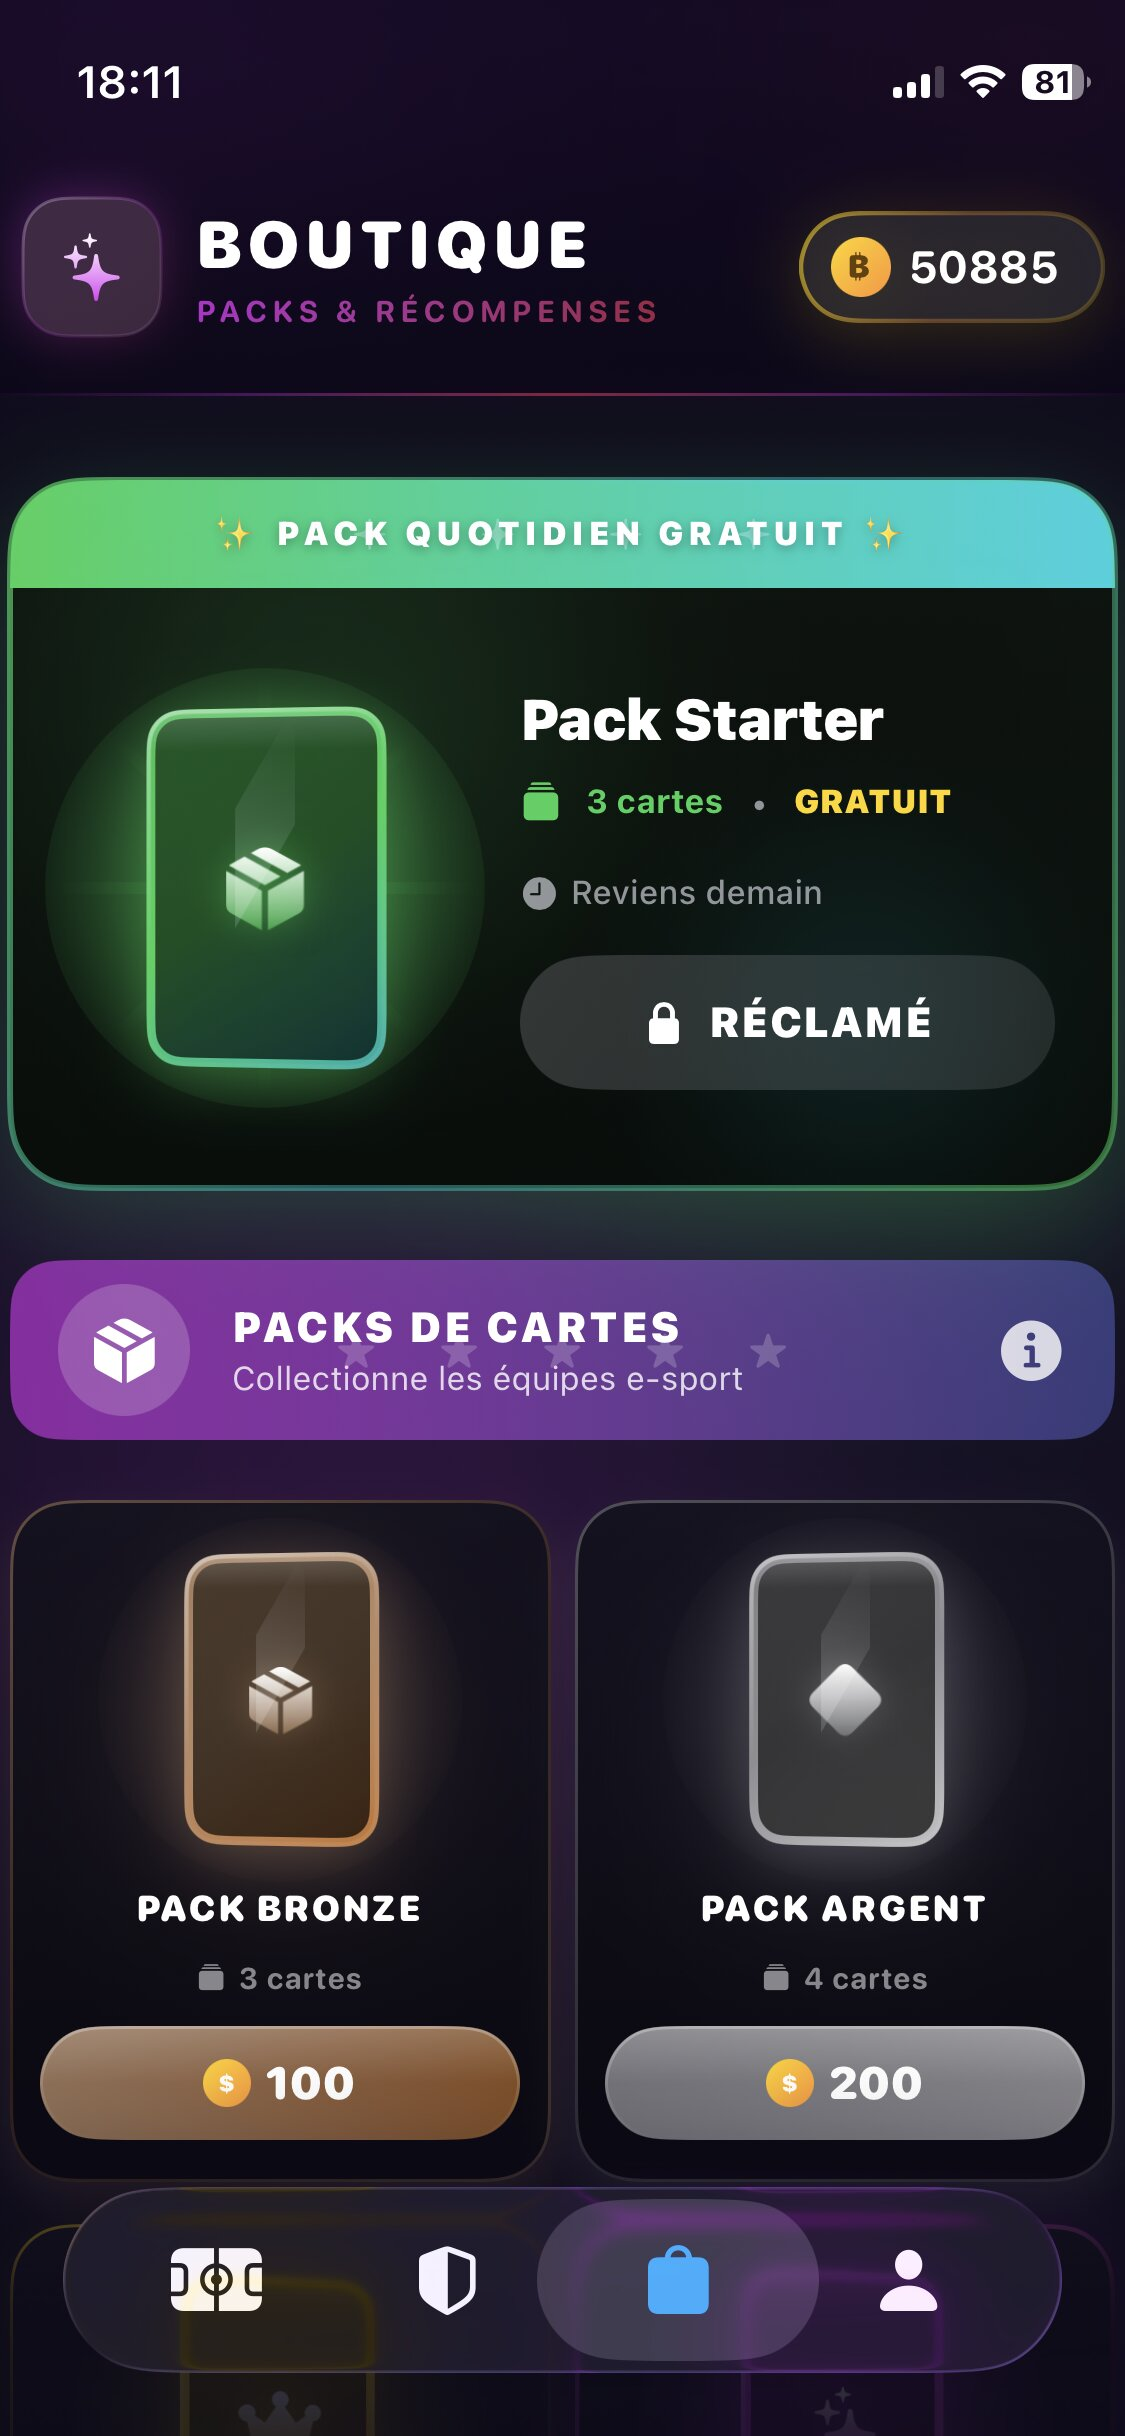
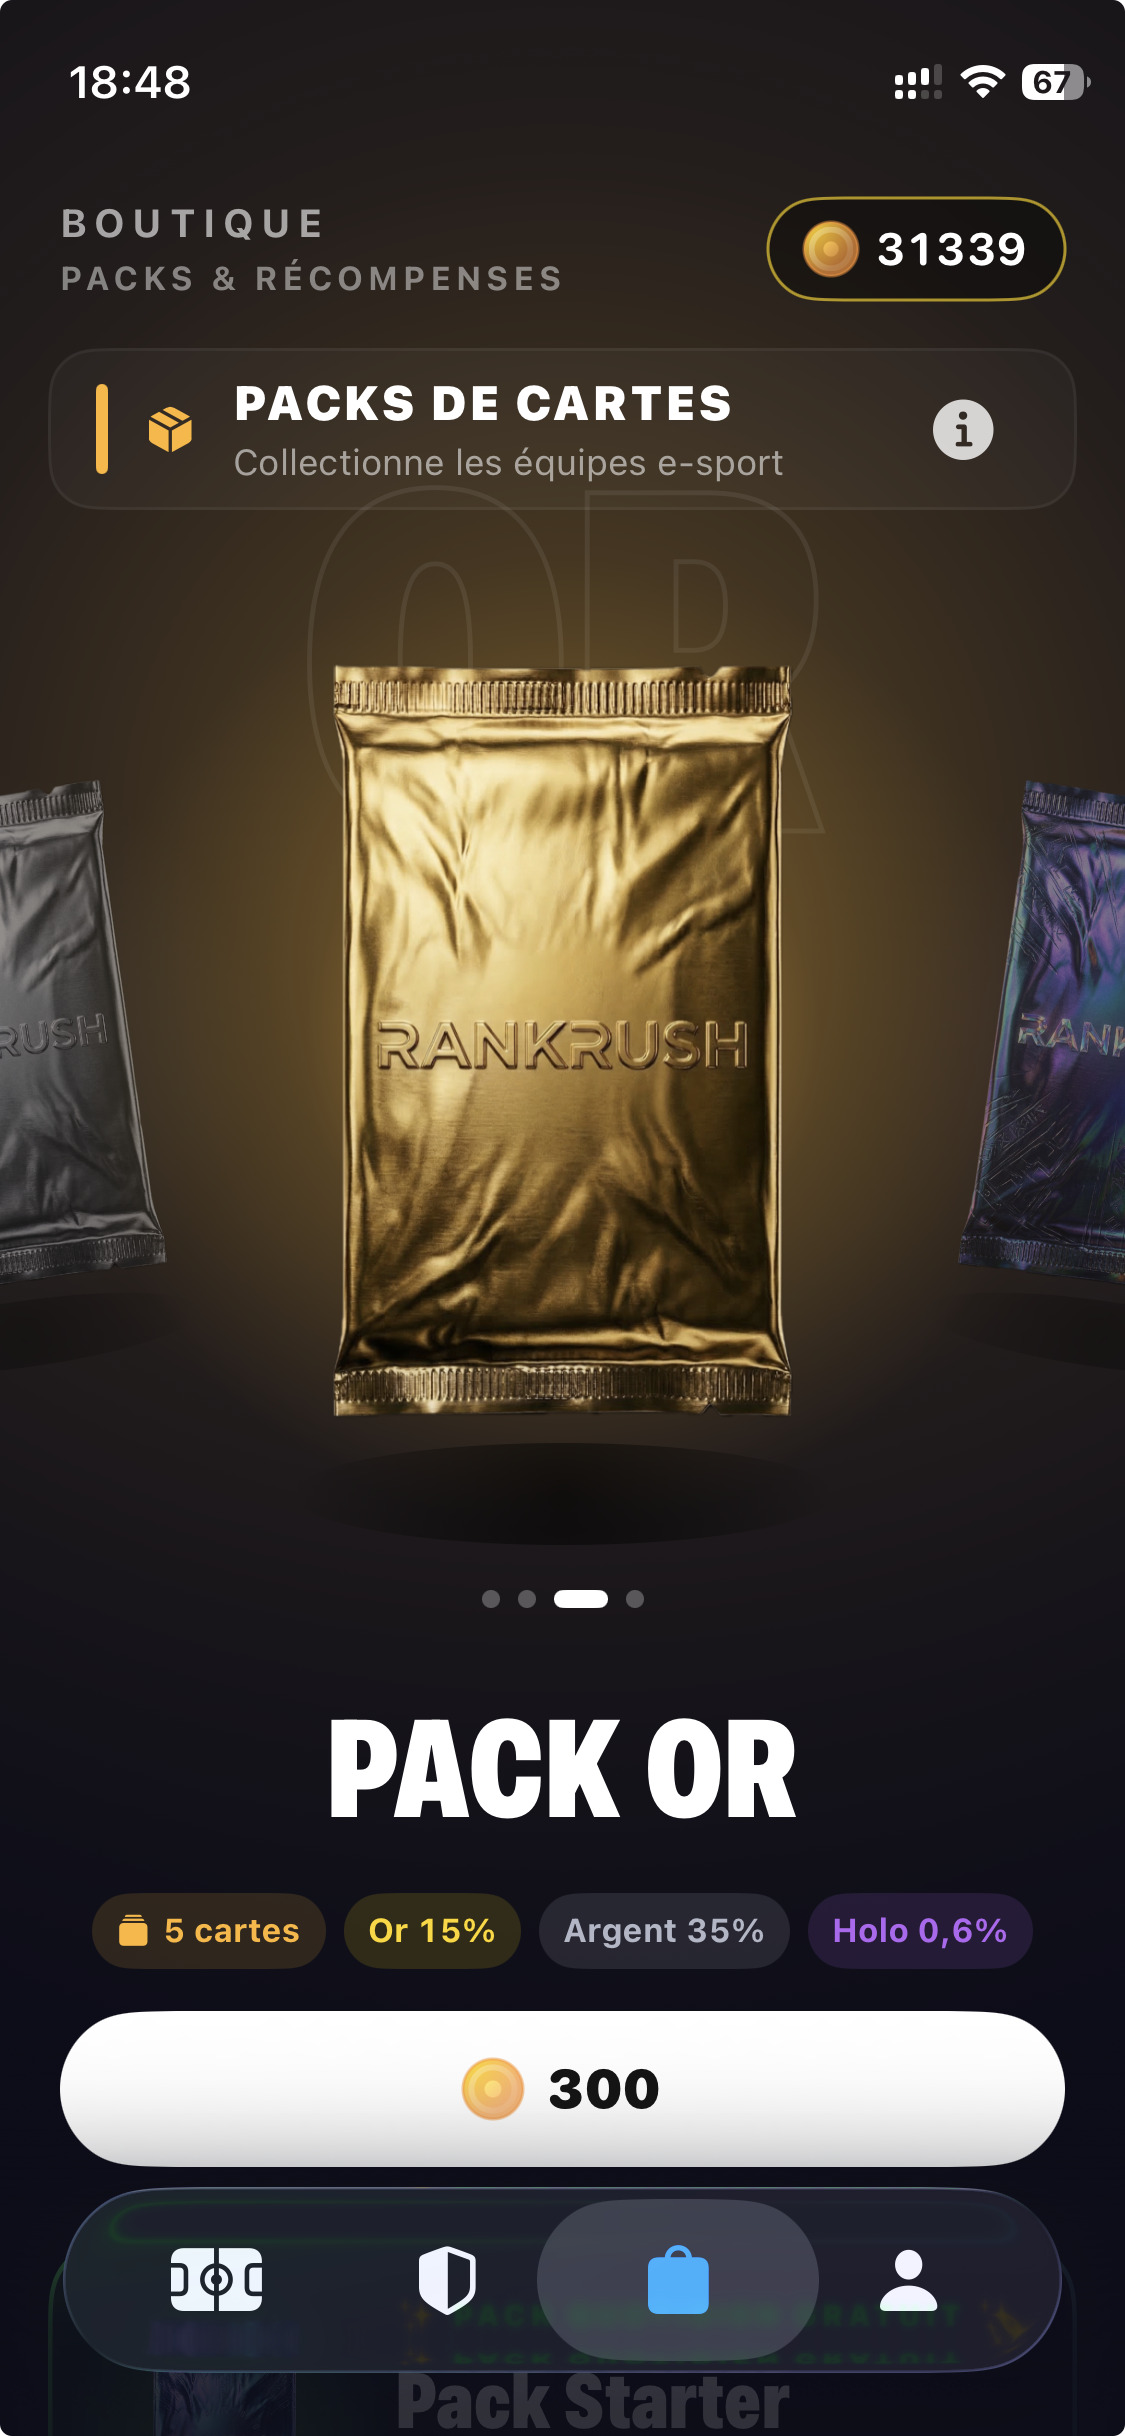
Nouvelle capture boutique (Pack Or) + cache-busting

diff --git a/index.html b/index.html
@@ -459,7 +459,7 @@
                 <img src="./assets/screen-bet.jpg" alt="Paris" class="gallery-screen" data-index="1" />
                 <img src="./assets/screen-cards-1.jpg?v=2" alt="Ma collection" class="gallery-screen" data-index="2" />
                 <img src="./assets/screen-league.jpg" alt="Ligues" class="gallery-screen" data-index="3" />
-                <img src="./assets/screen-shop.jpg" alt="Boutique" class="gallery-screen" data-index="4" />
+                <img src="./assets/screen-shop.jpg?v=2" alt="Boutique — Pack Or" class="gallery-screen" data-index="4" />
                 <img src="./assets/screen-profile.jpg" alt="Profil" class="gallery-screen" data-index="5" />
               </div>
             </div>
